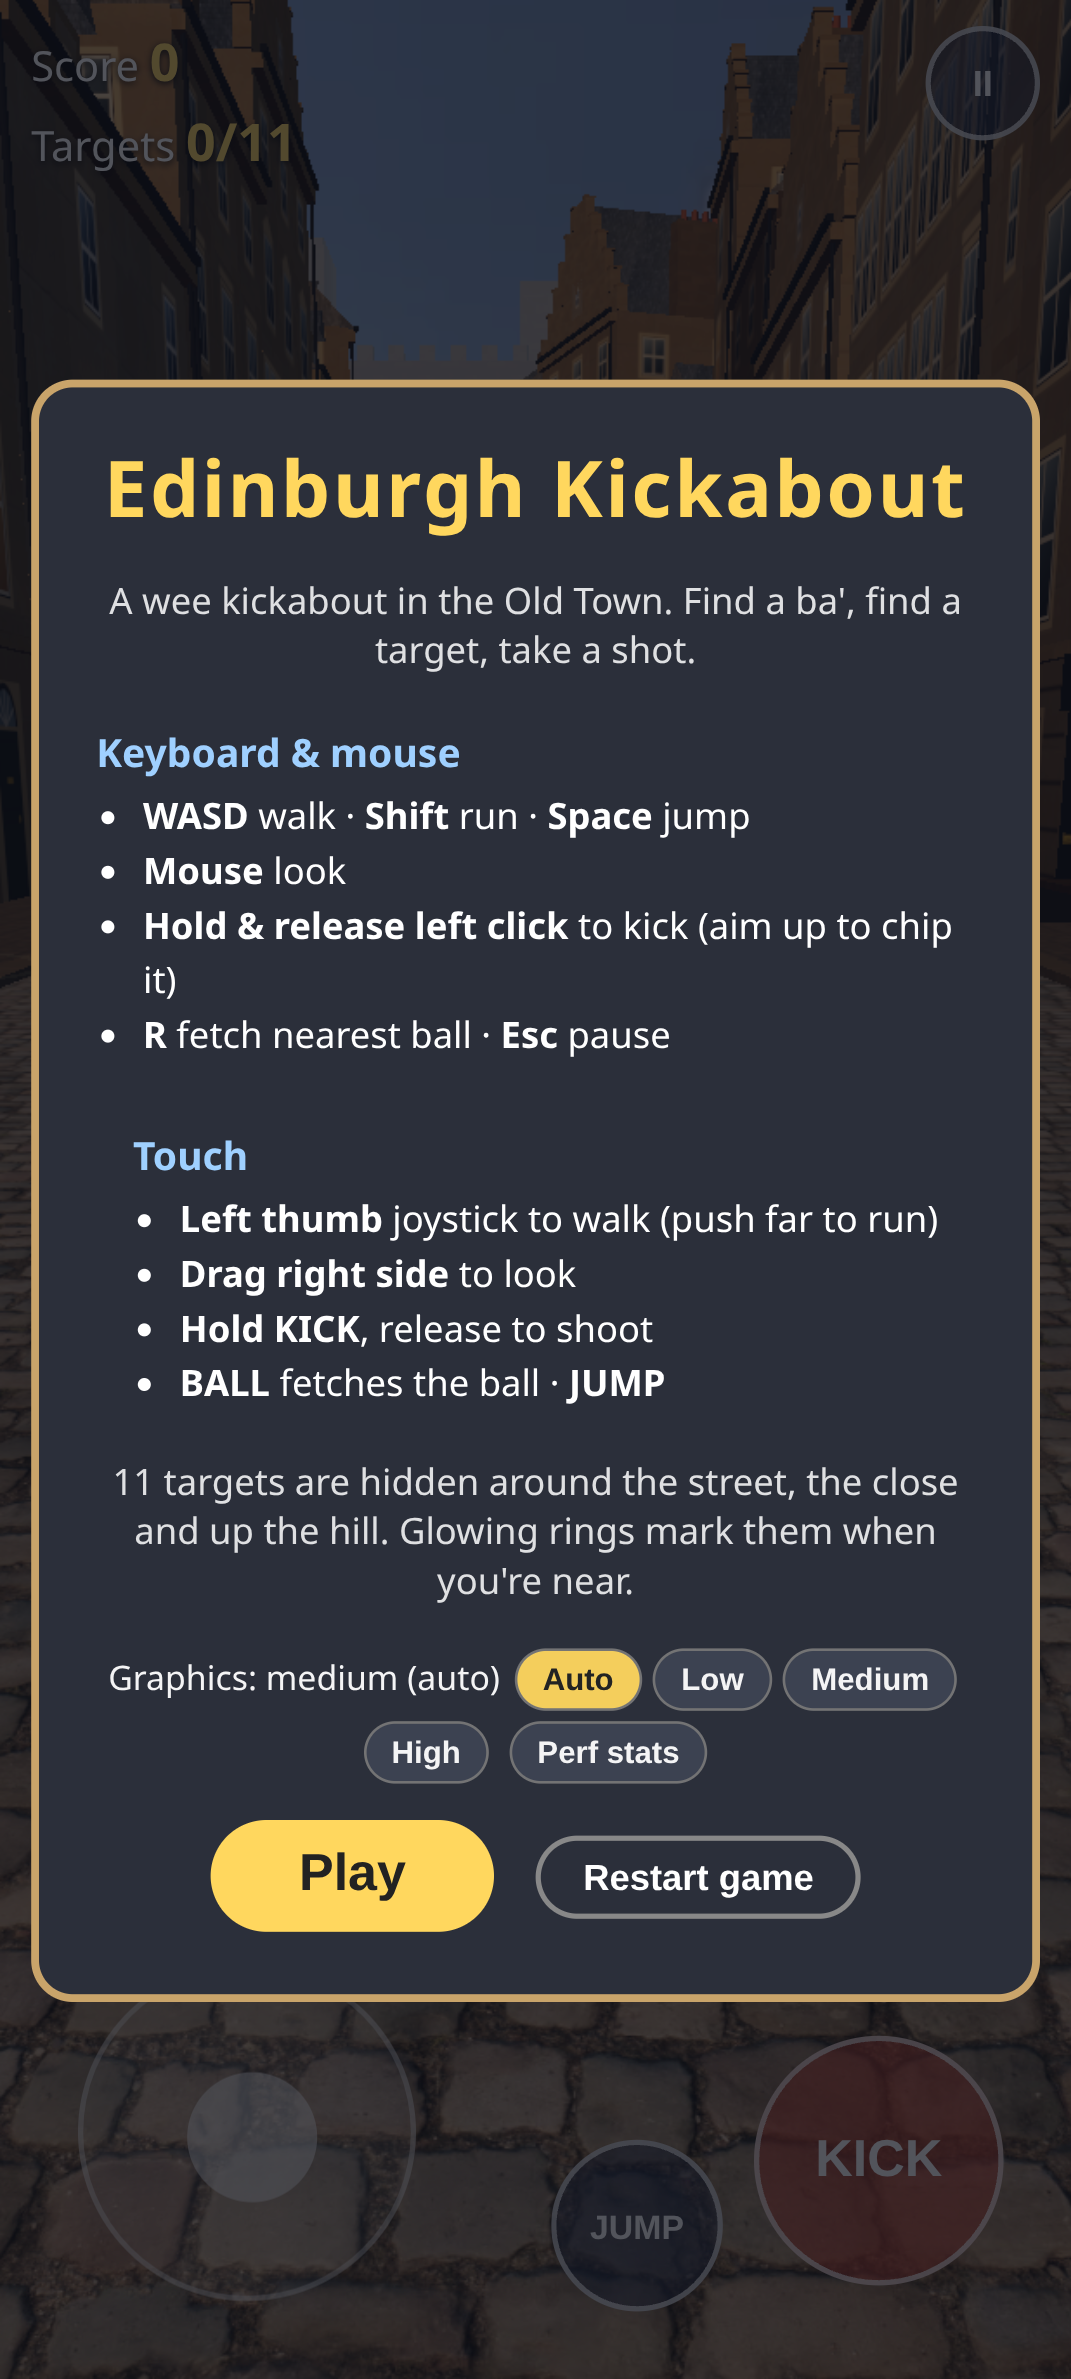
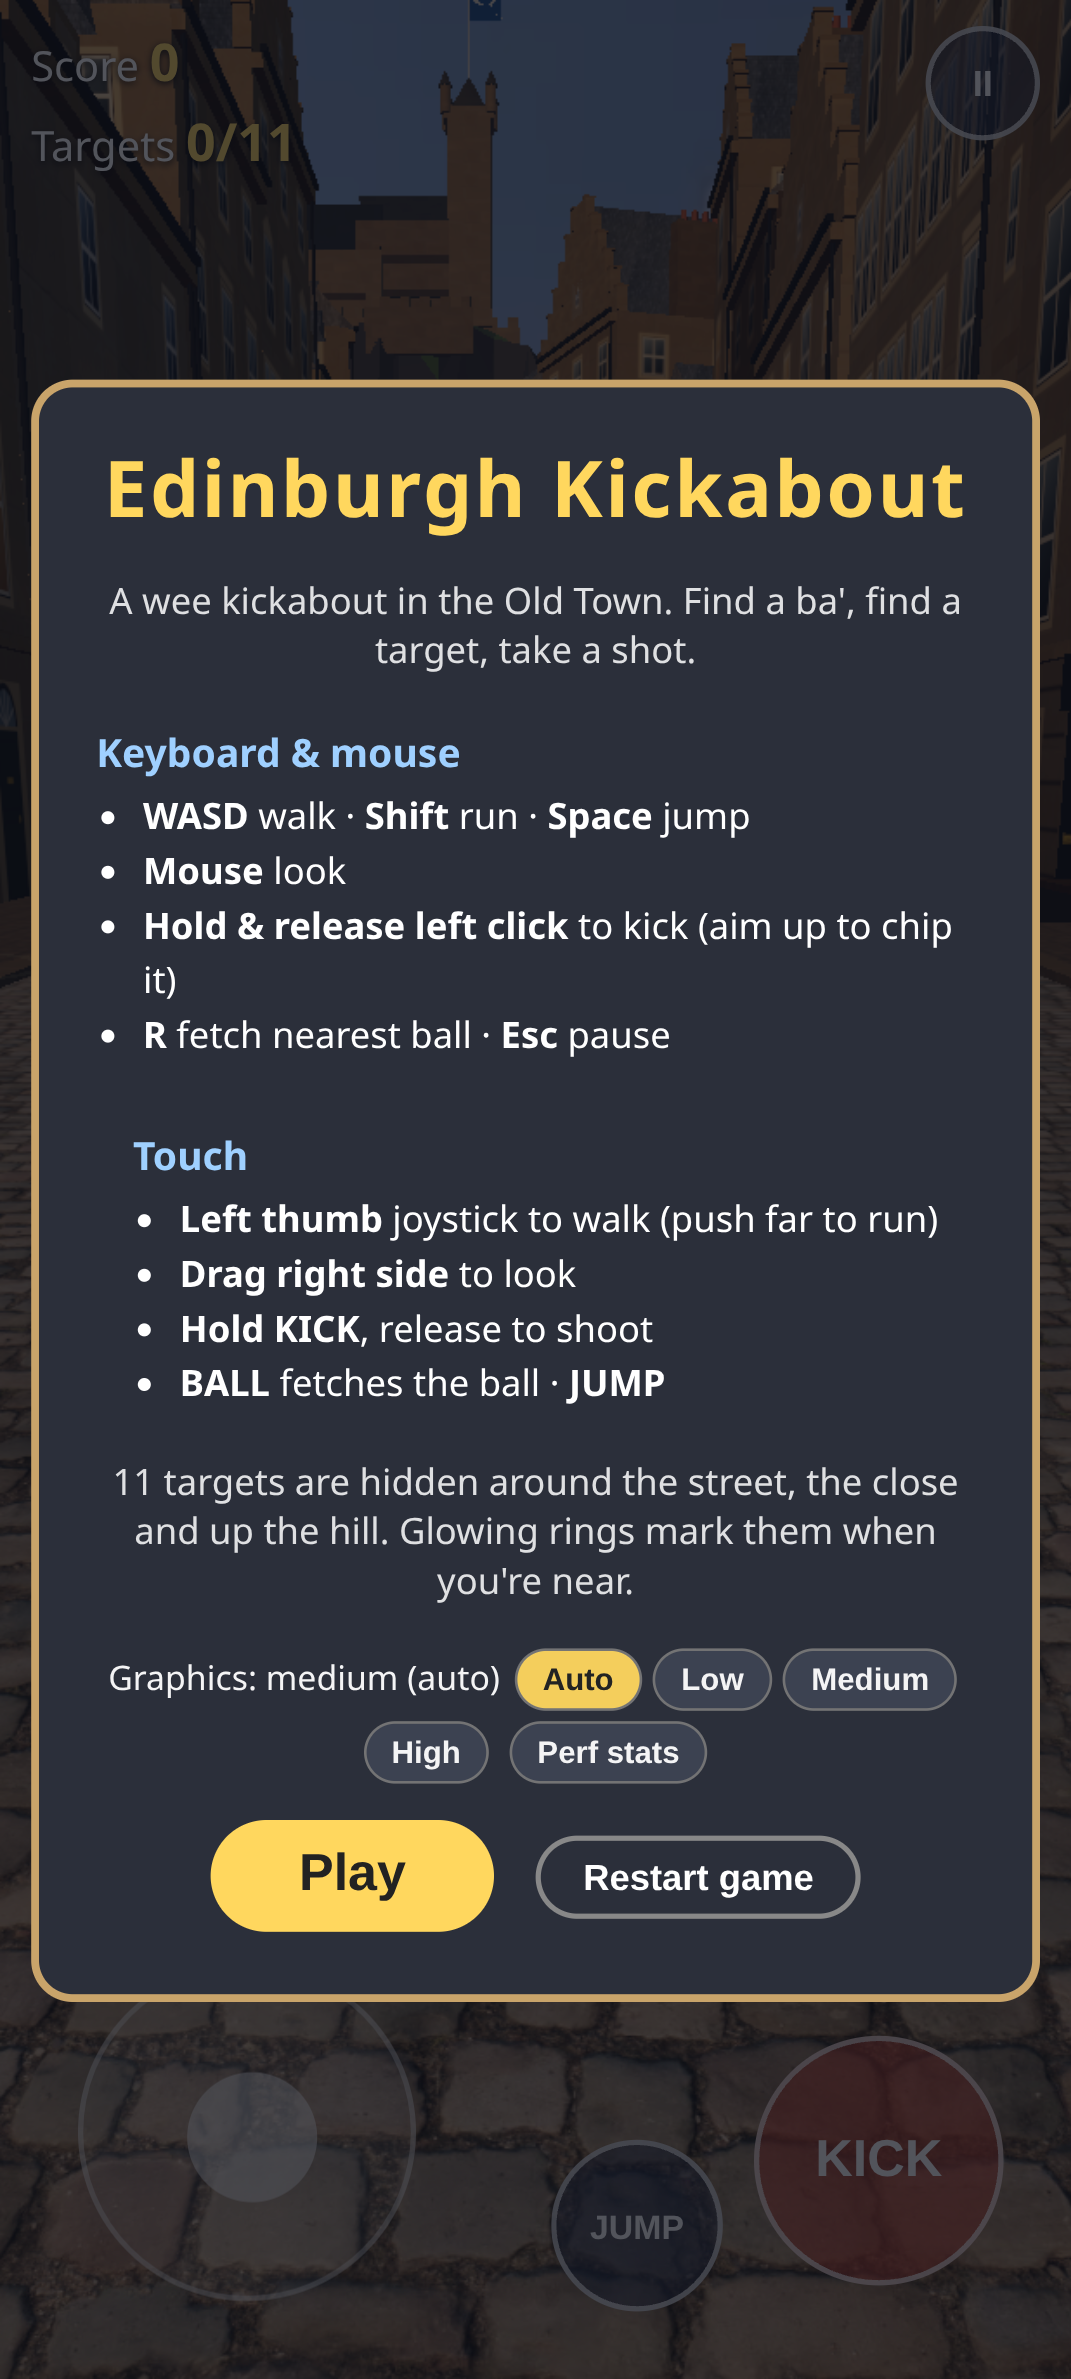
v1.3: Edinburgh Castle glow-up (crag-and-tail rock, barracks, Crown Square, palace tower + Saltire, Half Moon Battery, Esplanade; 2 draw calls, ~3.2k tris), castle budget check, deterministic target sweep

Changed region(s): [[0.2773, 0.0, 0.493, 0.1866]]

diff --git a/src/castle.js b/src/castle.js
@@ -1,0 +1,97 @@
+import * as THREE from 'three';
+import { roofPrism } from './batch.js';
+
+// Edinburgh Castle as a distant backdrop, as seen from the Grassmarket (looking north at the south face).
+// Proportions follow the real south elevation: a crag-and-tail rock (steep cliffs W/S, tail running
+// east to the Esplanade), New Barracks low on the west, Crown Square (Great Hall on the cliff edge,
+// Palace + tower, War Memorial behind), the Half Moon Battery drum and the gatehouse/Esplanade to the east.
+// In this world +x is west (screen-left when facing the castle) and east is -x.
+// Everything goes into two batches: 'castleRock' (vertex-coloured, flags too) and 'castleStone' (sandstone).
+export function buildCastle(B, CX, CZ, rand) {
+  const E = (lx) => CX + 16 + lx; // lx: local x; +lx = west (screen-left), -lx = east (screen-right)
+  const V = (x, y, z) => new THREE.Vector3(x, y, z);
+  const UP = 14; // lift: the rock should dominate, as from the Grassmarket
+  const M4 = (x, y0, z, sx, sy, sz, ry = 0, rx = 0, rz = 0) => new THREE.Matrix4().compose(V(x, y0 + UP, z), new THREE.Quaternion().setFromEuler(new THREE.Euler(rx, ry, rz, 'YXZ')), V(sx, sy, sz));
+  const BOX = new THREE.BoxGeometry(1, 1, 1), ROOF = roofPrism();
+  const STONE = [0xc9b89a, 0xbfae90, 0xb4a487, 0xc4b496], SLATE = 0x5c6066, DARK = 0x6e6252;
+  const tint = () => STONE[Math.floor(rand() * STONE.length)];
+  const box = (lx, y0, lz, w, h, d, c = tint()) => B.add('castleStone', BOX, M4(E(lx), y0 + h / 2, CZ + lz, w, h, d), c, { tile: 7 });
+  const roof = (lx, y0, lz, len, wid, h, c = SLATE) => B.add('castleStone', ROOF, M4(E(lx), y0, CZ + lz, wid, h, len, Math.PI / 2), c, { tile: 7 });
+  // stepped battlements: a wall with merlons along x
+  const wall = (lx0, lx1, lz, y0, top, thick = 1.6, merlons = true) => {
+    const w = Math.abs(lx1 - lx0), mid = (lx0 + lx1) / 2, c = tint();
+    box(mid, y0, lz, w, top - y0, thick, c);
+    if (merlons) for (let x = Math.min(lx0, lx1) + 1; x < Math.max(lx0, lx1) - 0.6; x += 2.6) box(x, top, lz, 1.3, 1.2, thick, c);
+  };
+  const strip = (lx, y, lz, w) => box(lx, y, lz - 0.08, w, 0.9, 0.2, DARK); // window band (reads as windows at distance)
+
+  // ---- Castle Rock: faceted heightfield, dark basalt cliffs with green scrub on the gentler slopes ----
+  const T = [[-110, 18], [-92, 28], [-58, 33], [-44, 36], [-32, 44], [20, 44], [27, 38], [64, 37], [78, 26], [90, 6], [100, -6]];
+  const top = (lx) => { for (let i = 1; i < T.length; i++) if (lx <= T[i][0]) { const [a, ya] = T[i - 1], [b, yb] = T[i]; const t = THREE.MathUtils.smoothstep(lx, a, b); return ya + (yb - ya) * t; } return -6; };
+  const BASE = -6, W = 34, NX = 52, NZ = 18, LX0 = -110, LX1 = 100;
+  const hgt = (lx, lz) => {
+    const t = Math.abs(lz) / W, tp = top(lx);
+    let s = 1; if (t > 0.56) s = 1 - Math.pow(Math.min(1, (t - 0.56) / 0.44), 0.55); // sharp cliff edge, scree below
+    const crag = Math.sin(lx * 0.37 + lz * 0.21) * Math.sin(lz * 0.53 - lx * 0.13) * 2.6 + Math.sin(lx * 1.1) * 0.9;
+    return BASE + (tp + UP - BASE) * s + crag * (s < 0.995 ? 1 : 0.12) * Math.min(1, (tp + UP - BASE) / 20);
+  };
+  const g = new THREE.PlaneGeometry(LX1 - LX0, 2 * W, NX, NZ); g.rotateX(-Math.PI / 2);
+  const p = g.attributes.position;
+  for (let i = 0; i < p.count; i++) {
+    const lx = p.getX(i) + (LX0 + LX1) / 2, lz = p.getZ(i);
+    const jx = (rand() - 0.5) * 2.2, jz = (rand() - 0.5) * 2.2; // break the grid
+    p.setXYZ(i, E(lx + jx), hgt(lx + jx, lz + jz), CZ + lz + jz);
+  }
+  const rock = g.toNonIndexed(); rock.computeVertexNormals(); // flat facets
+  const ROCK = [new THREE.Color(0x2c2c2d), new THREE.Color(0x38373a), new THREE.Color(0x45423f), new THREE.Color(0x242426)];
+  const SCRUB = [new THREE.Color(0x3f5a2c), new THREE.Color(0x4d6b31), new THREE.Color(0x344a26)];
+  const triCol = []; const tc = new THREE.Color();
+  B.add('castleRock', rock, null, 0xffffff, { vcol: (i, x, y, z, nx, ny) => {
+    const tri = Math.floor(i / 3); if (!triCol[tri]) {
+      const r = rand();
+      if (ny > 0.82 && y > 20 + UP) tc.copy(SCRUB[Math.floor(r * 3)]).lerp(ROCK[1], 0.25);
+      else if (ny > 0.62 || (ny > 0.38 && r < 0.22)) tc.copy(r < 0.6 ? SCRUB[Math.floor(r * 5) % 3] : ROCK[2]);
+      else tc.copy(ROCK[Math.floor(r * 4)]);
+      if (y < 6) tc.lerp(SCRUB[2], 0.45); // trees / gardens at the foot
+      triCol[tri] = tc.clone();
+    }
+    return triCol[tri];
+  } });
+
+  // ---- West: New Barracks (big, plain, angular, lower terrace) + hospital block ----
+  box(37, 34, -13, 30, 18, 11); for (const y of [38, 42, 46, 50]) strip(37, y, -18.5, 27);
+  box(37, 52, -13, 30.6, 0.8, 11.6, 0xa89a80); // flat roof parapet
+  box(55, 36, -2, 16, 9, 11); roof(55, 45, -2, 16, 11, 4);
+  box(14, 44, 2, 16, 10, 12); roof(14, 54, 2, 16, 12, 5); strip(14, 47, -4, 13);
+  // ---- Crown Square: Great Hall on the south cliff edge, Palace with tower (SE), War Memorial (N) ----
+  box(-4, 44, -12, 28, 9, 9); roof(-4, 53, -12, 28, 9.2, 6.5, 0x575a60); strip(-4, 47, -16.5, 24);
+  box(-22, 44, -7, 15, 13, 14); roof(-22, 57, -7, 15, 14.2, 5); strip(-22, 48, -14, 12); strip(-22, 52, -14, 12);
+  box(-6, 44, 7, 24, 12, 11); roof(-6, 56, 7, 24, 11.2, 5);
+  // Palace tower (the clock tower) with corner turrets and a small cap
+  box(-29.5, 44, -13.5, 5.5, 24, 5.5); box(-29.5, 68, -13.5, 6.3, 1.2, 6.3);
+  for (const [dx, dz] of [[-1, -1], [1, -1], [-1, 1], [1, 1]]) {
+    B.add('castleStone', new THREE.CylinderGeometry(0.75, 0.75, 3, 6), M4(E(-29.5 + dx * 2.9), 70, CZ - 13.5 + dz * 2.9, 1, 1, 1), tint(), {});
+    B.add('castleStone', new THREE.ConeGeometry(0.95, 1.8, 6), M4(E(-29.5 + dx * 2.9), 72.4, CZ - 13.5 + dz * 2.9, 1, 1, 1), SLATE, {});
+  }
+  B.add('castleStone', new THREE.ConeGeometry(3.3, 4.5, 4), M4(E(-29.5), 71.4, CZ - 13.5, 1, 1, 1, Math.PI / 4), SLATE, {});
+  // ---- East: Half Moon Battery (the big low curved drum), forewall, gatehouse, Esplanade ----
+  B.add('castleStone', new THREE.CylinderGeometry(12, 12.6, 15, 20, 1, false, Math.PI * 0.05, Math.PI * 1.25), M4(E(-38), 29, CZ - 4, 1, 1, 1, Math.PI * 0.62), tint(), { tile: 7 });
+  B.add('castleStone', new THREE.CylinderGeometry(12.4, 12.4, 1.4, 20, 1, false, Math.PI * 0.05, Math.PI * 1.25), M4(E(-38), 37.2, CZ - 4, 1, 1, 1, Math.PI * 0.62), 0xb2a284, {});
+  box(-38, 26, 2, 16, 11, 14); // drum core (fills the open side)
+  wall(-46, -52, -6, 30, 37.5, 2.5);
+  box(-52, 32, 0, 9, 11, 9); // gatehouse
+  for (const s of [-1, 1]) { B.add('castleStone', new THREE.CylinderGeometry(1.3, 1.3, 13, 8), M4(E(-56.5), 38.5, CZ + s * 4.3, 1, 1, 1), tint(), {}); B.add('castleStone', new THREE.ConeGeometry(1.6, 2.6, 8), M4(E(-56.5), 46.3, CZ + s * 4.3, 1, 1, 1), SLATE, {}); }
+  box(-74, 30, 0, 34, 3.2, 24, 0xa59a86); // Esplanade platform
+  wall(-57, -91, -12.4, 33.2, 34.4, 0.8, false); wall(-57, -91, 12.4, 33.2, 34.4, 0.8, false);
+  // ---- curtain walls along the south cliff, stepping down west to east ----
+  wall(-30, -16, -18.4, 40, 45.6); wall(-16, 9, -17.6, 40, 44.6); wall(9, 22, -18, 38, 44.2);
+  wall(22, 52, -19.6, 32, 35.4); wall(52, 66, -10, 33, 38.4); wall(66, 74, -4, 26, 37.4);
+  wall(-30, -36, -15, 37, 44); // step down to the Half Moon
+  // ---- flagpole + Saltire on the Palace tower ----
+  B.add('castleRock', new THREE.CylinderGeometry(0.12, 0.16, 9, 5), M4(E(-29.5), 78, CZ - 13.5, 1, 1, 1), 0xd8d8d8, {});
+  const fx = E(-29.5) - 2.2, fy = 81.2, fz = CZ - 13.5;
+  for (const side of [0, Math.PI]) {
+    B.add('castleRock', new THREE.PlaneGeometry(4, 2.6), M4(fx, fy, fz, 1, 1, 1, side), 0x1f4fa8, {});
+    for (const a of [Math.atan2(2.6, 4), -Math.atan2(2.6, 4)]) B.add('castleRock', new THREE.PlaneGeometry(4.6, 0.42), M4(fx, fy, fz, 1, 1, 1, side, 0, side ? -a : a).multiply(new THREE.Matrix4().makeTranslation(0, 0, 0.03)), 0xf2f2f2, {});
+  }
+}

diff --git a/src/world.js b/src/world.js
@@ -1,6 +1,7 @@
 import * as THREE from 'three';
 import * as CANNON from 'cannon-es';
 import { Batcher, QUAD, roofPrism } from './batch.js';
+import { buildCastle } from './castle.js';
 import { facadeAtlas, FACADE, SignAtlas, drawTargetDoor, pbrMaps } from './textures.js';
 
 // Layout (metres). Lower street (Grassmarket-style) runs along +Z, z -50..30.
@@ -264,16 +265,13 @@ export function buildWorld(scene, world, mats, P) {
 
   // ---------- skyline: Castle on its rock, Old Town roofs, a spire ----------
   const CX = 22, CZ = 215;
-  B.add('flat', new THREE.DodecahedronGeometry(45, 1), M4(CX, 4, CZ, 1.6, 0.9, 1), 0x5b5a50, {});
-  const cb = (x, y, z, w, h, d, c = 0xb3a68e) => solid('stone', CX + x, y, CZ + z, w, h, d, c, { phys: false, tile: 6 });
-  cb(0, 46, -6, 64, 16, 20); cb(-26, 55, -8, 12, 18, 12); cb(14, 58, -4, 16, 24, 14); cb(32, 50, -10, 10, 14, 10); cb(-6, 50, -18, 34, 6, 4, 0xa49680);
-  for (let x = -28; x <= 28; x += 4) cb(x, 54, -19, 2, 2, 2);
-  cyl('metal', CX + 14, 75, CZ - 4, 0.3, 0.3, 10, IRON, { phys: false });
+  buildCastle(B, CX, CZ, mulberry32(1544));
   B.add('flat', new THREE.ConeGeometry(4, 40, 6), M4(-70, 30, 150, 1, 1, 1), 0x9a9080, {});
   for (let i = 0; i < 130; i++) {
     const x = (rand() - 0.5) * 240, z = 80 + rand() * 110, h = 6 + rand() * 6 + Math.abs(x) * 0.06, w = 8 + rand() * 10, d = 6 + rand() * 8;
     if (Math.abs(x - CX) < 40 && z > 160) continue;
     const c = new THREE.Color().setHSL(0.08, 0.25, 0.3 + rand() * 0.15);
+    if (z + d / 2 > 172 && x > CX - 100 && x < CX + 130) continue; // keep clear of the rock's foot (rand() already consumed: layout after this is unchanged)
     B.add('flat', BOX, M4(x, h / 2 - 4, z, w, h, d), c, {});
     B.add('flat', ROOF, M4(x, h - 4, z, w, 2.5, d), 0x4a4d55, {});
   }
@@ -357,7 +355,7 @@ export function buildWorld(scene, world, mats, P) {
     cyl('flat', -5.5, PAVE + 0.75, 12, 0.3, 0.3, 1.5, 0xc8102e, { seg: 14, target: 'post' });
     cyl('flat', -5.5, PAVE + 1.55, 12, 0.34, 0.34, 0.12, 0xc8102e, { phys: false, seg: 14 });
     solid('flat', -5.22, PAVE + 1.15, 12, 0.08, 0.06, 0.3, 0x1a1a1a, { phys: false });
-    addTarget({ id: 'post', name: 'Pillar Box', hint: 'hit the postbox', points: 75, kind: 'hit', pos: V(-5.5, PAVE, 12), ringR: 0.8, stand: V(-2.2, 0, 12), aim: V(-5.5, 0.6, 12),
+    addTarget({ id: 'post', name: 'Pillar Box', hint: 'hit the postbox', points: 75, kind: 'hit', pos: V(-5.5, PAVE, 12), ringR: 0.8, stand: V(-5.5, PAVE, 9.4), aim: V(-5.5, 0.6, 12),
       lines: ['First class!', 'Signed for. Delivered.', "Royal Mail: 'Is this a parcel?'"] });
   }
   // 9. Busker's open guitar case (roll it in)
@@ -422,6 +420,13 @@ function mergeSimple(parts) {
   return g;
 }
 
+function hazed(m, k) {
+  m.onBeforeCompile = (sh) => { sh.fragmentShader = sh.fragmentShader.replace('#include <fog_fragment>', `#ifdef USE_FOG
+    float fogFactor = smoothstep( fogNear, fogFar, vFogDepth * ${k.toFixed(2)} );
+    gl_FragColor.rgb = mix( gl_FragColor.rgb, fogColor, fogFactor );
+  #endif`); };
+  m.customProgramCacheKey = () => 'hazed' + k; return m;
+}
 // One material per bucket, shared by everything. Lambert on low/medium, PBR on high.
 function makeMaterials(P, facadeTex, atlasTex) {
   const mk = (params) => {
@@ -441,6 +446,9 @@ function makeMaterials(P, facadeTex, atlasTex) {
     paving: mk({ ...pbrMaps('paving') }),
     wood: mk({ ...pbrMaps('wood', { normal: false }) }),
     atlas: mk({ map: atlasTex, roughness: 0.7 }),
+    // distant castle: lighter, partial haze (fog distance scaled) so it reads as far away but stays legible
+    castleRock: hazed(mk({ side: THREE.DoubleSide }), 0.5),
+    castleStone: hazed(mk({ ...pbrMaps('sandstone', { normal: false }) }), 0.5),
     pigeon: new THREE.MeshLambertMaterial({ color: 0x6f7480 }),
     pigeonHead: new THREE.MeshLambertMaterial({ color: 0x4b5f6a }),
   };

diff --git a/src/batch.js b/src/batch.js
@@ -8,7 +8,7 @@ export class Batcher {
   constructor() { this.buckets = new Map(); }
   // local: placement matrix (in the street-section frame); frame: section -> world (bend);
   // tile: box-mapped UVs in metres per texture repeat (computed before the bend so textures follow the street).
-  add(key, geo, local, color = 0xffffff, { grime = 0, uvScale = null, uvRect = null, shade = null, tile = 0, frame = null } = {}) {
+  add(key, geo, local, color = 0xffffff, { grime = 0, uvScale = null, uvRect = null, shade = null, tile = 0, frame = null, vcol = null } = {}) {
     let g = geo.index ? geo.toNonIndexed() : geo.clone();
     for (const k of Object.keys(g.attributes)) if (!['position', 'normal', 'uv'].includes(k)) g.deleteAttribute(k);
     if (local) g.applyMatrix4(local);
@@ -29,6 +29,7 @@ export class Batcher {
       let f = 1;
       if (grime) f *= 1 - grime * Math.max(0, 1 - pos.getY(i) / 5);
       if (shade) f *= shade(pos.getX(i), pos.getY(i), pos.getZ(i));
+      if (vcol) { const nor = g.attributes.normal; const k = vcol(i, pos.getX(i), pos.getY(i), pos.getZ(i), nor.getX(i), nor.getY(i), nor.getZ(i)); col[i * 3] = k.r * f; col[i * 3 + 1] = k.g * f; col[i * 3 + 2] = k.b * f; continue; }
       col[i * 3] = c.r * f; col[i * 3 + 1] = c.g * f; col[i * 3 + 2] = c.b * f;
     }
     g.setAttribute('color', new THREE.BufferAttribute(col, 3));
@@ -43,7 +44,7 @@ export class Batcher {
       merged.computeBoundingSphere();
       const m = new THREE.Mesh(merged, materials[key]);
       m.matrixAutoUpdate = false; m.updateMatrix();
-      m.castShadow = shadows && !['sky', 'lamp', 'atlas', 'glass'].includes(key); m.receiveShadow = shadows;
+      m.castShadow = shadows && !['sky', 'lamp', 'atlas', 'glass', 'castleRock', 'castleStone'].includes(key); m.receiveShadow = shadows;
       m.name = 'batch:' + key; scene.add(m); meshes[key] = m;
     }
     this.buckets.clear();

diff --git a/README.md b/README.md
@@ -72,8 +72,14 @@ See CREDITS.md for licences.
 - The recalled ball is held at your feet: it can't roll downhill. Kick it as normal (it flies exactly like a resting ball), or walk more than 1.6 m away to let it go.
 - With no input you stand still on any slope.
 
-## To do later
-- Castle silhouette needs a better pass.
+## Castle (v1.3)
+- `src/castle.js` builds a low-poly Edinburgh Castle as seen from the Grassmarket. It has:
+  - the crag-and-tail Castle Rock, with dark basalt facets and scrub;
+  - the New Barracks to the west, and Crown Square (Great Hall, Palace and its tower with the Saltire, War Memorial);
+  - the Half Moon Battery drum, the gatehouse turrets and the Esplanade;
+  - stepped curtain walls with battlements.
+- Budget: 2 draw calls and about 3.2k triangles. No shadow pass, and it reuses the sandstone texture. Distance haze comes from the scene fog at half its distance, which keeps the silhouette readable.
+
 
 ## Verify / profile
 - `npm run build && npm run verify`: headless checks.
